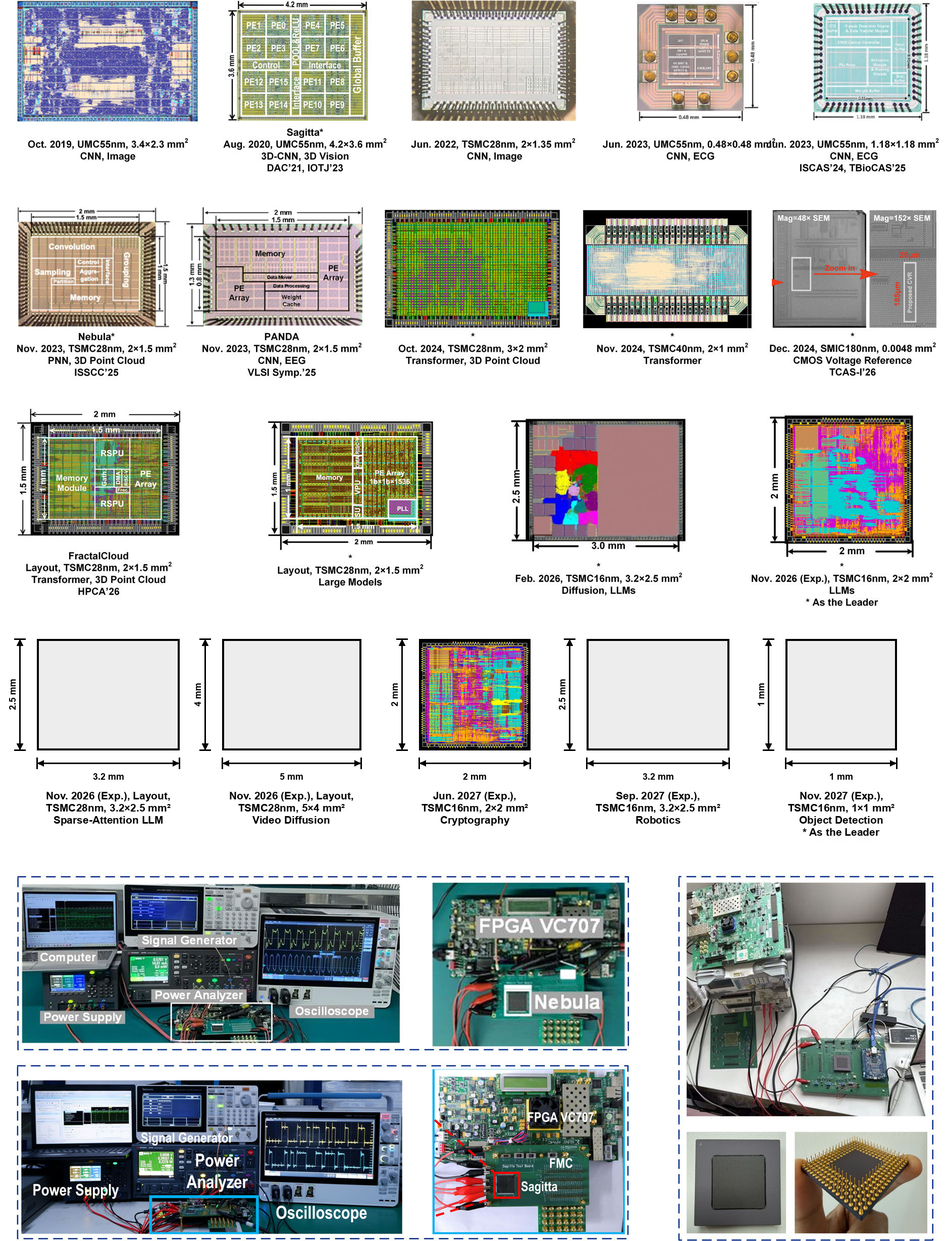
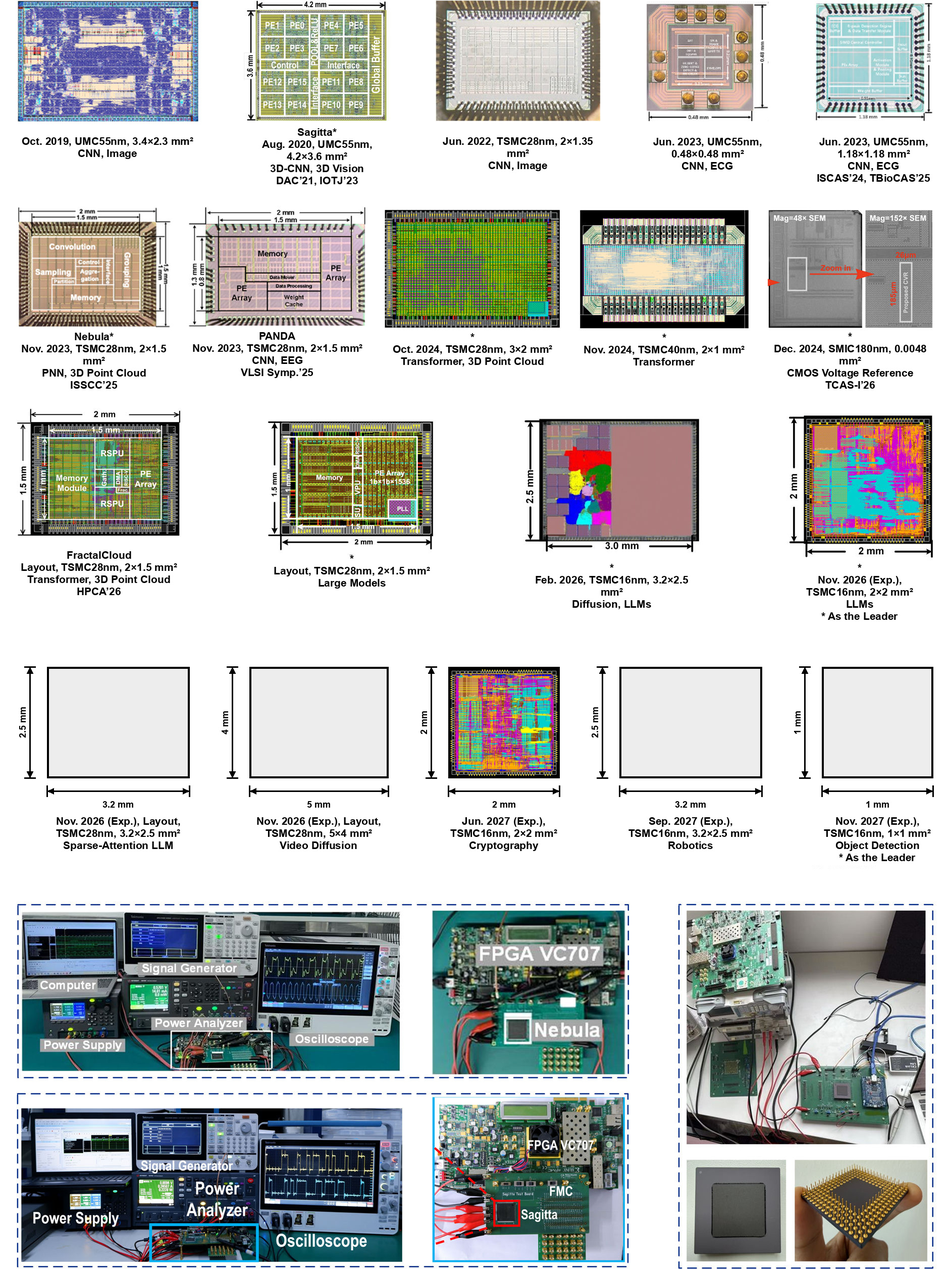
Add Academic Service section, justify chip gallery rows, polish bio and map size

diff --git a/_pages/about.md b/_pages/about.md
@@ -17,10 +17,12 @@ redirect_from:
 
 <span class='anchor' id='about-me'></span>
 
-I am currently a Postdoctoral Fellow at the Duke Center for Computational Evolutionary Intelligence ([DCEI](https://cei.pratt.duke.edu/)), supervised by [Prof. Yiran Chen](https://cei.pratt.duke.edu/people/yiran-chen) and [Prof. Hai "Helen" Li](https://cei.pratt.duke.edu/people/hai-helen-li). I received the Ph. D. degree of Microelectronics and Solid-State Electronics in the School of Integrated Circuits, Peking University, China, in Jan. 2024, supervised by [Prof. Hailong Jiao](https://www.ece.pku.edu.cn/info/1045/2719.htm) at [PKU-VLSI Lab](http://www.PKU-VLSI.com). I received the Bachelor degree of Microelectronics Science and Engineering from Sun Yat-sen University, Guangzhou, China, in Jul. 2018.  My research interest is energy-efficient AI chips for edge computing via cross-layer innovations, spanning from algorithms to architecture and circuit design. My research directions are guided by bottlenecks observed in
+I am currently a Postdoctoral Fellow at the Duke Center for Computational Evolutionary Intelligence ([DCEI](https://cei.pratt.duke.edu/)), supervised by [Prof. Yiran Chen](https://cei.pratt.duke.edu/people/yiran-chen) and [Prof. Hai "Helen" Li](https://cei.pratt.duke.edu/people/hai-helen-li). I received the Ph.D. degree of Microelectronics and Solid-State Electronics in the School of Integrated Circuits, Peking University, China, in Jan. 2024, supervised by [Prof. Hailong Jiao](https://www.ece.pku.edu.cn/info/1045/2719.htm) at [PKU-VLSI Lab](http://www.PKU-VLSI.com). I received the Bachelor degree of Microelectronics Science and Engineering from Sun Yat-sen University, Guangzhou, China, in Jul. 2018.
+
+My research interest is energy-efficient AI chips for edge computing via cross-layer innovations, spanning from algorithms to architecture and circuit design. My research directions are guided by bottlenecks observed in
 real hardware implementations, informing practical cross-layer insights.
 
-**I am seeking collaboration in both research and engineering.** If you are interested in me, please feel free to contact me at any time.
+**I am seeking collaboration in both research and engineering.** If you are interested in collaborating, please feel free to contact me.
 
 <!--My research interest includes neural machine translation and computer vision. I have published more than 100 papers at the top international AI conferences with total <a href='https://scholar.google.com/citations?user=DhtAFkwAAAAJ'>google scholar citations <strong><span id='total_cit'>260000+</span></strong></a> (You can also use google scholar badge <a href='https://scholar.google.com/citations?user=DhtAFkwAAAAJ'><img src="https://img.shields.io/endpoint?url={{ url | url_encode }}&logo=Google%20Scholar&labelColor=f6f6f6&color=9cf&style=flat&label=citations"></a>).-->
 
@@ -546,14 +548,18 @@ An energy-efficient convolutional neural network (CNN) accelerator is proposed f
 - *2018.09 - 2024.01*, Doctor of Philosophy in Microelectronics and Solid-State Electronics, Peking University, Beijing, China. Thesis Title: Research on On-Chip Neural Network Accelerators for 3D Understanding.
 - *2014.09 - 2018.06*, Bachelor of Engineering in Microelectronics Science and Engineering, Sun Yat-sen University, Guangzhou, China.
 
-<!--# 🔥 News
-- *2022.02*: &nbsp;🎉🎉 Lorem ipsum dolor sit amet, consectetur adipiscing elit. Vivamus ornare aliquet ipsum, ac tempus justo dapibus sit amet. 
-- *2022.02*: &nbsp;🎉🎉 Lorem ipsum dolor sit amet, consectetur adipiscing elit. Vivamus ornare aliquet ipsum, ac tempus justo dapibus sit amet. -->
+<!--# 🔥 News {#news}
+- *YYYY.MM*: &nbsp;🎉 ... -->
 
 # 🎖 Honors and Awards {#honors}
 - 12/2023 Leo KoGuan Scholarship (1/157, ¥20,000), *Peking University*                                                      
 - 12/2023 Exceptional Award for Academic Innovation, *Peking University*                                                                                                                  
 - 12/2022 Award for Scientific Research, *Peking University*                                                                                                                                  
+
+# 👔 Academic Service {#service}
+- **Technical Program Committee:** HPCA 2027
+- **Conference Reviewer:** ICLR 2027
+- **Journal Reviewer:** IEEE Transactions on Very Large Scale Integration Systems (**TVLSI**), IEEE Transactions on Circuits and Systems I: Regular Papers (**TCAS-I**), IEEE Journal on Emerging and Selected Topics in Circuits and Systems (**JETCAS**)
 
 <!-- 
 # 🍀 Tape Out
@@ -675,14 +681,9 @@ A 2.0 TOPS/W CNN accelerator skipping invalid activations
 - I am an Easy Going and Self-Motivated Person. Feel Free to Reach out Anytime!
 - Interests and Hobbies: Fitness, Taekwondo(Black Belt), and Table Tennis. -->
 
+<div style="width:67%; margin:0 auto;">
 <script type="text/javascript" id="mapmyvisitors" src="//mapmyvisitors.com/map.js?d=_BR7QekQGZnFn3itv4-ySG-lm-FuV_MoJjqvcMQ5LXo&cl=ffffff&w=a"></script>
-<!-- <div style="width:100%; text-align:center;">
-  <div style="display:inline-block; transform:scale(0.6); transform-origin:top center;">
-    <script type="text/javascript" id="mapmyvisitors"
-      src="//mapmyvisitors.com/map.js?d=_BR7QekQGZnFn3itv4-ySG-lm-FuV_MoJjqvcMQ5LXo&cl=ffffff&w=a">
-    </script>
-  </div>
-</div> -->
+</div>
 
 
 
